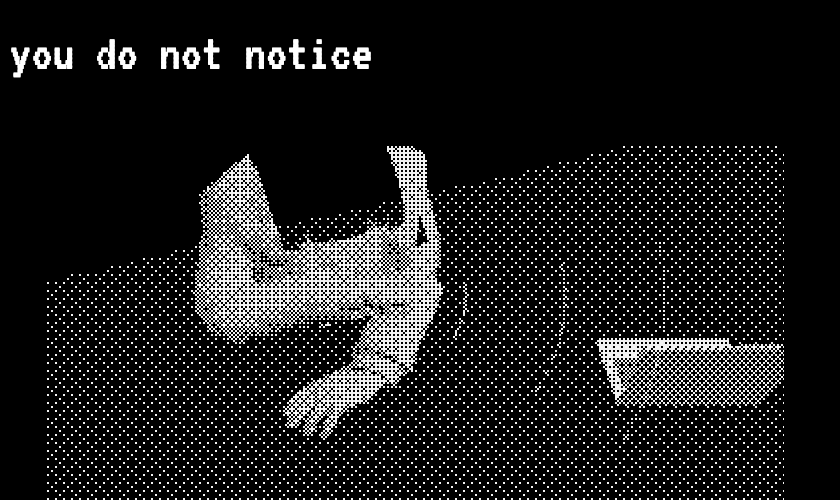
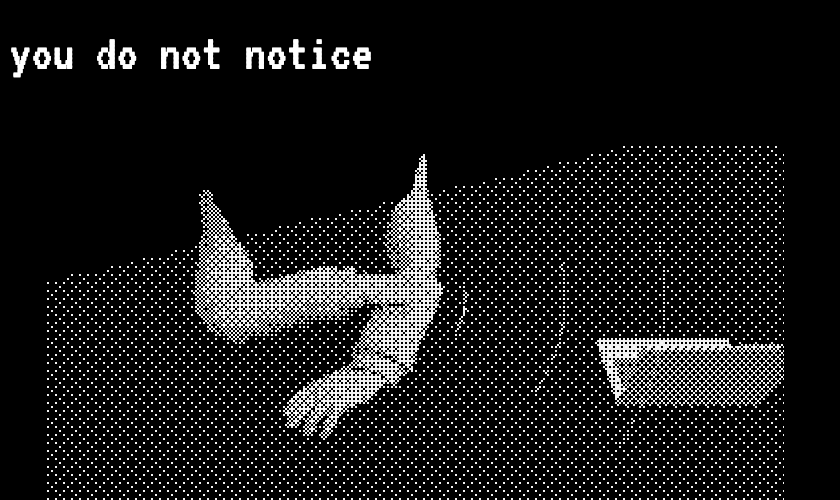
pitch: Habit scene shows only the two arms (non-arm triangles dropped), no clipping

diff --git a/app/src/pitch/scenes3d.ts b/app/src/pitch/scenes3d.ts
@@ -162,6 +162,26 @@ function price(g: CanvasRenderingContext2D, s: string, x: number, y: number) {
 }
 // Habit: the explainer's mannequin at a desk, framed tight on the forearms. The left forearm rests on the desk;
 // the right hand's curled fingertips scratch it, then lift during the pause while the nudge shows.
+// Keep only the triangles whose three vertices are mostly skinned to arm bones (upper arm, forearm, hand, fingers), so
+// the mannequin becomes two arms with no chest, belly, head or legs.
+function armsOnly(m: THREE.SkinnedMesh) {
+  const g = m.geometry, idx = g.index, si = g.attributes.skinIndex, sw = g.attributes.skinWeight
+  if (!idx || !si || !sw) { m.visible = false; return }
+  const isArm = m.skeleton.bones.map((b) => /(Left|Right)(Arm|ForeArm|Hand)/.test(b.name))
+  const keep = new Uint8Array(si.count)
+  for (let v = 0; v < si.count; v++) {
+    let w = 0
+    for (let k = 0; k < 4; k++) if (isArm[si.getComponent(v, k)]) w += sw.getComponent(v, k)
+    keep[v] = w > 0.5 ? 1 : 0
+  }
+  const out: number[] = []
+  for (let t = 0; t < idx.count; t += 3) {
+    const a = idx.getX(t), b = idx.getX(t + 1), c = idx.getX(t + 2)
+    if (keep[a] && keep[b] && keep[c]) out.push(a, b, c)
+  }
+  if (!out.length) { m.visible = false; return }
+  g.setIndex(out)
+}
 const scratchingHand = make3D(() => {
   const scene = stage(), camera = cam()
   const desk = new THREE.Mesh(new THREE.BoxGeometry(3, 0.04, 1.4), SOFT(0x1c1c1c)); scene.add(desk)
@@ -192,6 +212,7 @@ const scratchingHand = make3D(() => {
       if (!m.isMesh) return
       if (/^(EyeLeft|EyeRight|Wolf3D_Teeth|Wolf3D_Beard|Wolf3D_Headwear)$/.test(m.name)) m.visible = false
       ;(m.material as THREE.Material).dispose(); m.material = body; m.frustumCulled = false
+      if ((m as THREE.SkinnedMesh).isSkinnedMesh) armsOnly(m as THREE.SkinnedMesh)
     })
     const bone = (n: string) => { const b = bones.get(n); if (!b) throw new Error('guy.glb: missing bone ' + n); return b }
     const at = (n: string) => bone(n).getWorldPosition(new V3())
@@ -214,16 +235,7 @@ const scratchingHand = make3D(() => {
     // the desk sits at elbow height; the left forearm lies across it in front of the body
     const lSh = at('LeftArm'), rSh = at('RightArm'), mid = lSh.clone().add(rSh).multiplyScalar(0.5)
     const deskY = mid.y - 0.25 // elbow height, so the forearms lie flat with natural elbows
-    // Remove only the torso and head: clip the block between the shoulders (|x| < 0.135), in front of the chest, above hand height.
-    // clipIntersection clips a point only when it is inside ALL three planes, so the arms (outside the block) stay whole.
-    // The y plane keeps everything below hand height, so the forearms and hands crossing the middle are never cut.
-    body.clippingPlanes = [
-      new THREE.Plane(new V3(0, 0, 1), -(mid.z + 0.26)),
-      new THREE.Plane(new V3(1, 0, 0), -(mid.x + 0.135)),
-      new THREE.Plane(new V3(-1, 0, 0), mid.x - 0.135),
-      new THREE.Plane(new V3(0, -1, 0), deskY + 0.16),
-    ]
-    body.clipIntersection = true
+    // Only the two arms: everything else was dropped from the meshes on load (see armsOnly), so no clipping is needed
     desk.position.set(mid.x, deskY - 0.03, mid.z + 0.45)
     const wl = new V3(mid.x + (rSh.x - lSh.x) * 0.2, deskY + 0.03, mid.z + 0.4)
     g = { bone, q0, L: arm('Left'), R: arm('Right'), wl, el: new V3() }
